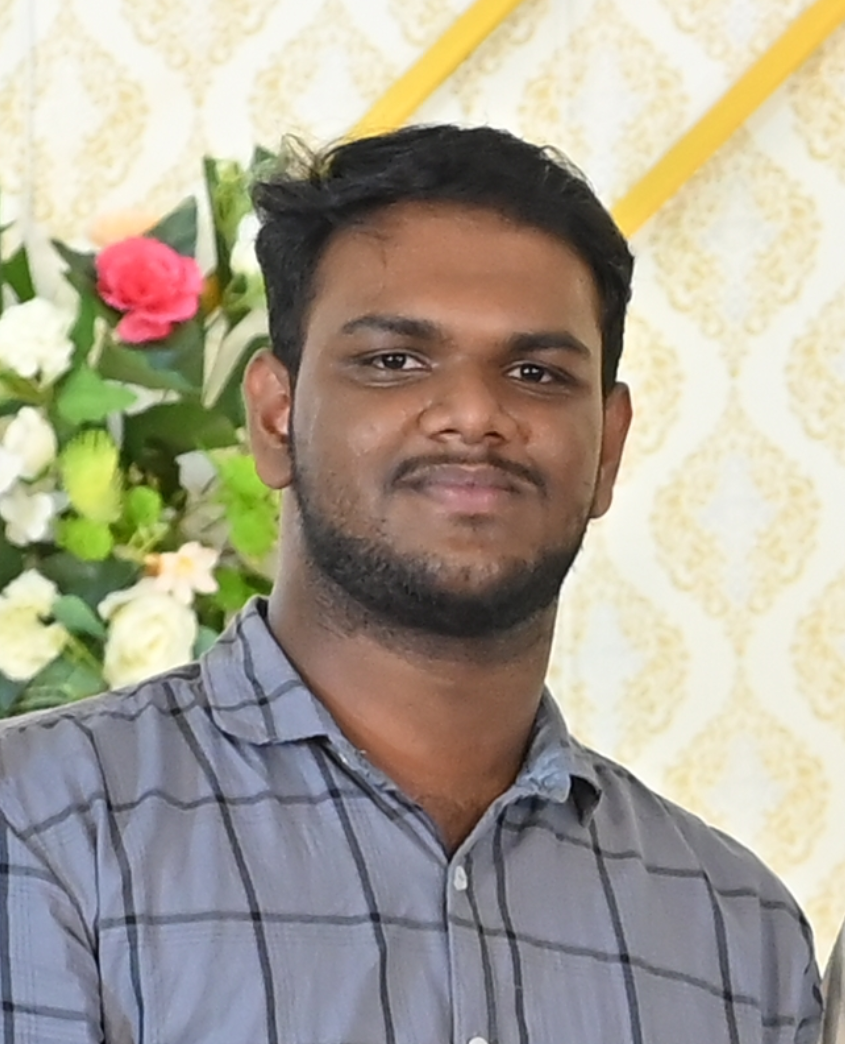
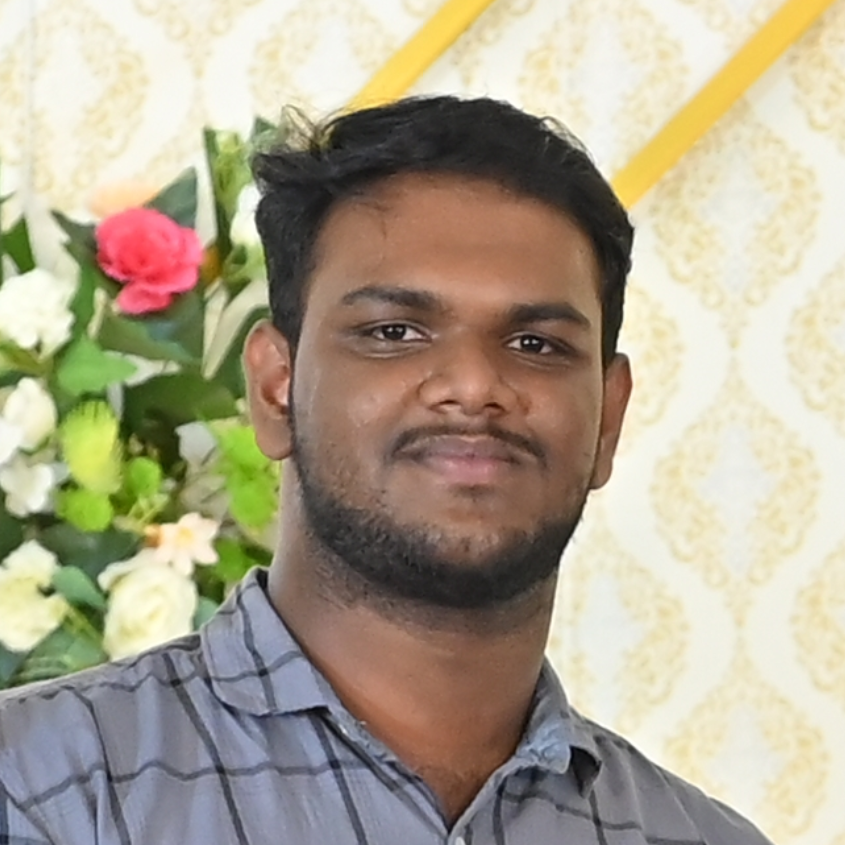
Contact Us page added

diff --git a/src/app/components/Contact/ContactPage.jsx b/src/app/components/Contact/ContactPage.jsx
@@ -1,0 +1,86 @@
+import ContactCard from "./ContactCard";
+import chairperson from "../../assets/contacts/sreeparvathy_crop.jpg"
+import gensec from "../../assets/contacts/arif.jpg"
+import jointsec from "../../assets/contacts/akash.jpg"
+import sim from "../../assets/contacts/laya.jpg"
+import eventhead from "../../assets/contacts/Athul.png"
+import eventhead2 from "../../assets/contacts/aleena.jpg"
+
+
+
+export default function Contact (){
+    const contactDetails = [
+        {
+            name: "Sreeparvathy S Nair",
+            title: "Chairperson",
+            email: "sreeparvathynair.mec@gmail.com",
+            phone: "",
+            linkedin: "https://www.linkedin.com/in/sreeparvathy-nair-b29a6326b/",
+            img: chairperson
+        },
+        
+        {
+            name: "Arif Basheer",
+            title: "General Secretary",
+            email: "arifbasheer.mec@gmail.com",
+            phone: "",
+            linkedin: "https://www.linkedin.com/in/arif-basheer-b20491258/",
+            img: gensec
+        },
+
+        {
+            name: "Akash V P",
+            title: "Joint Secretary",
+            email: "akashvp.mec@gmail.com",
+            phone: "",
+            linkedin: "https://www.linkedin.com/in/akashvp/",
+            img: jointsec
+        },
+
+        {
+            name: "Laya Sara Joy",
+            title: "Social Initiatives Manager",
+            email: "layasarajoy.mec@gmail.com",
+            phone: "",
+            linkedin: "https://www.linkedin.com/in/laya-sara-joy/",
+            img: sim
+        },
+
+        {
+            name: "Athul Babu",
+            title: "Event Head",
+            email: "athulbabu5088@gmail.com",
+            phone: "",
+            linkedin: "https://www.linkedin.com/in/athul-babu-9b55362a5/",
+            img: eventhead
+        },
+
+        {
+            name: "Aleena Prince",
+            title: "Event Head",
+            email: "aleenaprince.mec@gmail.com",
+            phone: "",
+            linkedin: "https://www.linkedin.com/in/aleena-prince-b85244230/",
+            img: eventhead2
+        }
+    ]
+    return (
+        <>
+        <div className="w-[100vw] flex justify-center items-center flex-col overflow-hidden h-full pb-10">
+            <h1 className="text-center mt-10 text-4xl">Contact <span className="text-blue-500">Us</span></h1>
+            <p className="text-center md:w-[30vw] w-[90vw] mt-5 mb-10 font-sans bg-gradient-to-r from-[#ffffff] to-[#00ffff] bg-clip-text text-transparent text-[18px]" >We’d love to hear from you! Whether you have questions, feedback, or just want to chat, feel free to reach out to us. Your thoughts and inquiries are valuable to us, and we’re here to help in any way we can.</p>
+            <div className="flex flex-wrap justify-center flex-row items-center  h-fit w-[80vw] gap-[120px] align-middle">
+
+                {contactDetails.map((cd, index) => (
+                    <ContactCard
+                        key={index}
+                        details = {cd}
+                    />
+                ))}
+
+
+            </div>
+        </div>
+        </>
+    )
+}

diff --git a/src/app/components/Contact/ContactCard.jsx b/src/app/components/Contact/ContactCard.jsx
@@ -1,0 +1,90 @@
+'use client';
+
+import React, { useState } from 'react';
+import Image from 'next/image'; 
+import { FaLinkedinIn } from 'react-icons/fa';
+import { LuMails } from 'react-icons/lu';
+import { FaPhone } from 'react-icons/fa6';
+import { motion } from 'framer-motion'; 
+import './ContactCard.css';
+
+const ContactCard = ({details}) => {
+  const [isHovered, setIsHovered] = useState(false);
+
+
+  const cardVariants = {
+    hidden: { opacity: 0, y: 50 },
+    visible: { opacity: 1, y: 0, transition: { duration: 1.2 } },
+    exit: { opacity: 0, y: -50, transition: { duration: 1.2 } },
+  };
+
+ 
+  const containerVariants = {
+    visible: {
+      opacity: 1,
+      transition: {
+        staggerChildren: 0.3, 
+      },
+    },
+    hidden: { opacity: 0 },
+  };
+
+  const childVariants = {
+    visible: { 
+      opacity: 1, 
+      y: -15,
+      transition: { duration: 0.5 }  
+    },
+    hidden: { 
+      opacity: 0, 
+      y: 20,
+      transition: { duration: 0.5 }
+    },
+  };
+
+  return (
+    <>
+      <motion.div
+        className="card-container"
+        variants={cardVariants}
+        initial="hidden"              
+        whileInView="visible"         
+        exit="exit"           
+        viewport={{ once: false }}    
+        onMouseEnter={() => setIsHovered(true)}  
+        onMouseLeave={() => setIsHovered(false)} 
+      >
+        <div className="logowrapper">
+          <Image
+            className="logoimg"
+            src={details.img}
+            alt="Logo"
+          />
+        </div>
+        <div className="text-field">
+          <h2>{details.name}</h2>
+          <p>{details.title}</p>
+        </div>
+
+        <motion.div
+          className="socials"
+          variants={containerVariants}
+          initial="hidden"
+          animate={isHovered ? 'visible' : 'hidden'}
+        >
+          <motion.a href={details.linkedin} variants={childVariants} target='blank'>
+            <FaLinkedinIn />
+          </motion.a>
+          <motion.a href={`https://mail.google.com/mail/?view=cm&fs=1&to=${details.email}`} variants={childVariants} target='blank'>
+            <LuMails />
+          </motion.a>
+          <motion.a href="#" variants={childVariants}>
+            <FaPhone />
+          </motion.a>
+        </motion.div>
+      </motion.div>
+    </>
+  );
+};
+
+export default ContactCard;

diff --git a/src/app/components/Contact/ContactCard.css b/src/app/components/Contact/ContactCard.css
@@ -1,0 +1,81 @@
+.card-container {
+    height: 450px;
+    width: 350px;
+    background: rgba(30, 30, 58, 0.452);
+    box-shadow: 0 8px 32px 0 rgba(51, 56, 133, 0.459);
+    /* backdrop-filter: blur(10.5px); */
+    /* -webkit-backdrop-filter: blur(10.5px); */
+    border-radius: 30px;
+    border: 1.5px solid #fff;
+    display: flex;
+    justify-content: center;
+    gap: 60px;
+    flex-direction: column;
+    align-items: center;
+    transition: 0.3s ease-in-out;
+}
+
+.card-container:hover {
+    border-radius: 30px;
+    box-shadow: 5px 8px 10px 0 rgba(31, 38, 135, 0.37);
+    scale: 1.01;
+}
+
+.logoimg {
+    height: 170px;
+    width: 170px;
+    overflow: visible;
+    background-size: cover;
+    clip-path: circle(50%);
+    image-rendering: crisp-edges;
+}
+
+.logowrapper {
+    margin-top: 20px;
+    box-shadow: 0px 0px 70px #ffffff73;
+    border-radius: 50%;
+    transition: 0.3s ease-in-out;
+}
+
+.text-field {
+    display: flex;
+    justify-content: center;
+    align-items: center;
+    flex-direction: column;
+    margin: 0;
+}
+
+.text-field h2 {
+    font-size: 27px;
+}
+
+.text-field p {
+    opacity: 0.7;
+}
+
+.socials {
+    display: flex;
+    flex-direction: row;
+    align-items: center;
+    justify-content: space-around;
+    width: 70%;
+    font-size: 25px;
+    opacity: 0;
+}
+
+.socials a {
+    color: #ffffff;
+    opacity: 0.8;
+}
+
+.socials a:hover {
+    color: #ffffff;
+    opacity: 1;
+    scale: 1.05;
+    text-decoration: none;
+}
+
+.card-container:hover .logowrapper{
+    box-shadow: 0px 0px 90px #ffffff73;
+}
+

diff --git a/src/app/page.js b/src/app/page.js
@@ -9,6 +9,7 @@ import Navbar from "./components/Navbar";
 import AccordionImageGallery from "./components/ImageGallery";
 import WhyParticipate from "./components/WhyParticipate/WhyParticipate";
 import FAQ from "./components/FAQ/FAQ";
+import Contact from "./components/Contact/ContactPage";
 
 export default function Home() {
   return (
@@ -24,6 +25,7 @@ export default function Home() {
       <Highlights />
       <AccordionImageGallery />
       <FAQ />
+      <Contact />
       <Footer />
     </>
   );
